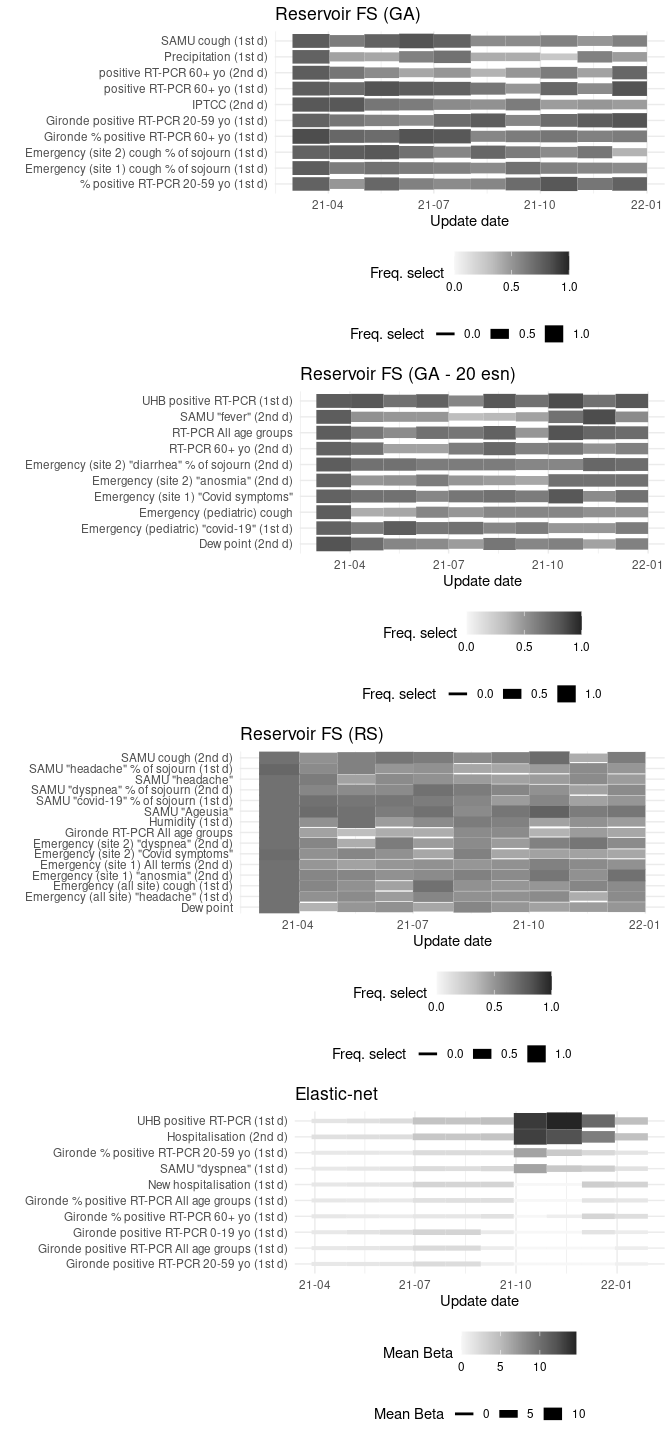
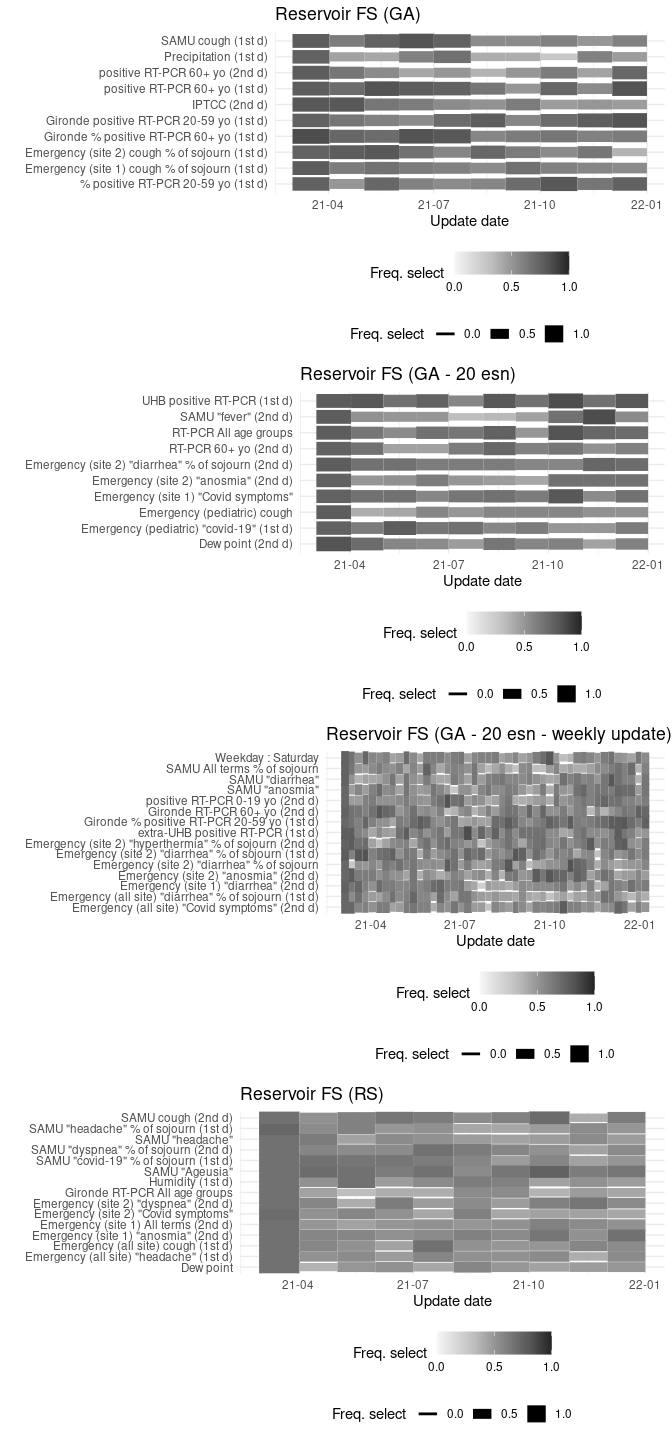
update results for accepted paper

Changed region(s): [[0.0312, 0.5, 1.0, 1.0]]

diff --git a/script/results_high_dim_rc.md b/script/results_high_dim_rc.md
@@ -149,6 +149,30 @@ The total number of features is 409.
    <td style="text-align:right;"> 1.85 </td>
   </tr>
   <tr>
+   <td style="text-align:left;"> Reservoir FS (GA - 20 esn - week update) </td>
+   <td style="text-align:left;"> No </td>
+   <td style="text-align:right;"> 14.52 </td>
+   <td style="text-align:right;"> 12.00 </td>
+   <td style="text-align:right;"> -4.07 </td>
+   <td style="text-align:right;"> 8.49 </td>
+   <td style="text-align:right;"> 0.26 </td>
+   <td style="text-align:right;"> 0.32 </td>
+   <td style="text-align:right;"> 0.84 </td>
+   <td style="text-align:right;"> 2.02 </td>
+  </tr>
+  <tr>
+   <td style="text-align:left;"> Reservoir FS (GA - 20 esn - week update) </td>
+   <td style="text-align:left;"> Yes </td>
+   <td style="text-align:right;"> 15.35 </td>
+   <td style="text-align:right;"> 12.57 </td>
+   <td style="text-align:right;"> -3.23 </td>
+   <td style="text-align:right;"> 9.54 </td>
+   <td style="text-align:right;"> 0.30 </td>
+   <td style="text-align:right;"> 0.31 </td>
+   <td style="text-align:right;"> 0.87 </td>
+   <td style="text-align:right;"> 1.89 </td>
+  </tr>
+  <tr>
    <td style="text-align:left;"> Reservoir FS 7 days (GA) </td>
    <td style="text-align:left;"> No </td>
    <td style="text-align:right;"> 8.59 </td>
@@ -453,6 +477,12 @@ RC-GA](results_high_dim_rc_files/figure-commonmark/numeric-hp-rc-ga-1.png)
 ![Numeric hyperparameters of RC-GA with 20
 reservoirs](results_high_dim_rc_files/figure-commonmark/numeric-hp-rc-ga-20-1.png)
 
+![Numeric hyperparameters of RC-GA with 20
+reservoirs](results_high_dim_rc_files/figure-commonmark/numeric-hp-rc-ga-20-weekw-1.png)
+
+![Numeric hyperparameters of RC-GA with 20
+reservoirs](results_high_dim_rc_files/figure-commonmark/numeric-hp-rc-ga-20-weekw-2.png)
+
 ## Categorical hyperparameters
 
     [[1]]
@@ -462,6 +492,9 @@ reservoirs](results_high_dim_rc_files/figure-commonmark/numeric-hp-rc-ga-20-1.pn
     NULL
 
     [[3]]
+    NULL
+
+    [[4]]
     NULL
 
     [[1]]
